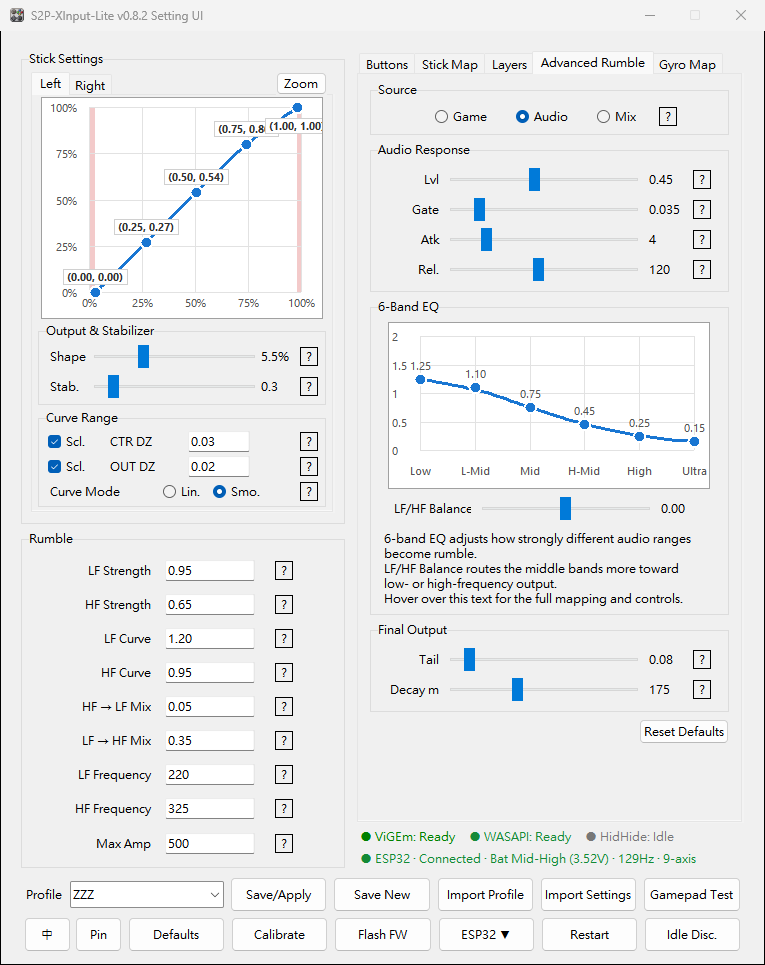
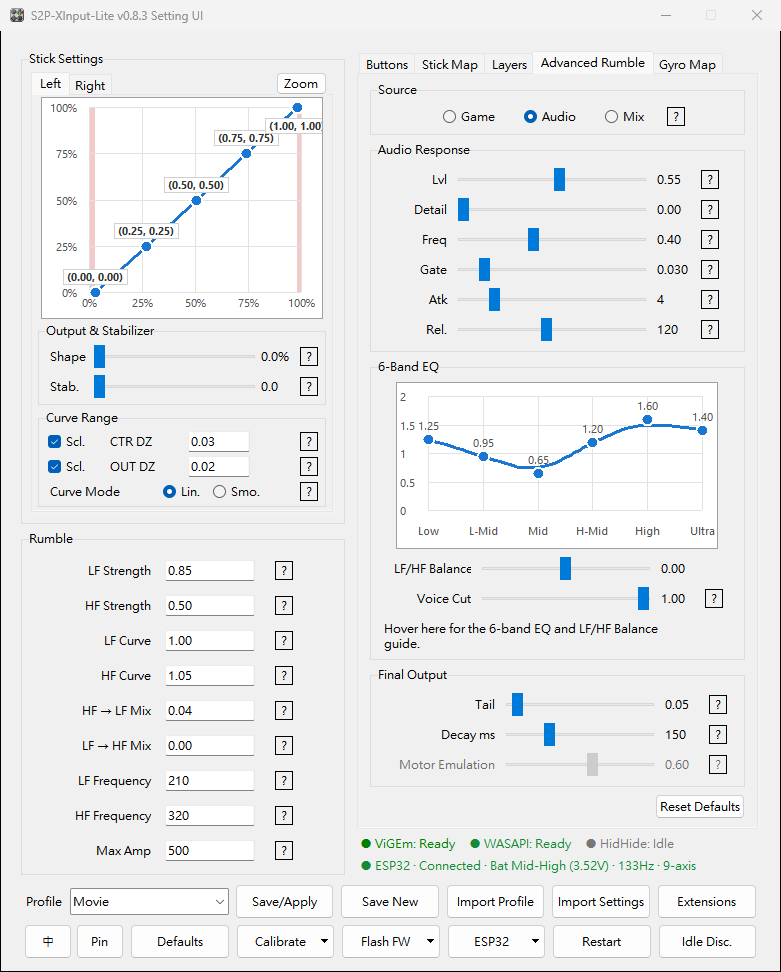
Write the v0.8.3 release notes and update the READMEs and guides
- Replace the v0.8.2 notes with v0.8.3 notes covering Voice Cut and the
  Movie profile, Motor Emulation, Detail and Freq, the audio rumble fixes,
  the redesigned rumble test patterns, custom firmware flashing, the
  cancellable flash-port wait, sensor calibration that connects first,
  new-window focus, Aim Test comparisons and the Raw HID button fix. The
  bundled firmware is unchanged, so the notes say no reflash is needed
  after v0.8.2.
- Point both READMEs at the v0.8.3 notes, say the firmware matches v0.8.2,
  and list the new rumble options and custom firmware flashing.
- The guides say sensor calibration offers to start the connection, and
  gain anchors for rumble, Voice Cut, the rumble test and sensor
  calibration.
- Retake the Advanced Rumble and Rumble Test screenshots.

diff --git a/RELEASE_NOTES_v0.8.3.md b/RELEASE_NOTES_v0.8.3.md
@@ -1,4 +1,4 @@
-# v0.8.2
+# v0.8.3
 
 **[Download the latest Windows release](https://github.com/duoduo-88/S2P-XInput-Lite/releases/latest)** · **[Support the project on Ko-fi](https://ko-fi.com/duoduo88)**
 
@@ -19,21 +19,23 @@ To upgrade, extract the new version to a new folder and use **Import Settings**
 to bring over your profiles, layers, and calibration. The
 [User Guide](manual/USER_GUIDE.md) covers every setting step by step.
 
+v0.8.3 bundles the same ESP32-S3 firmware as v0.8.2, S2P-FW `1.0.9`. If you
+already flashed it with v0.8.2, nothing needs to be flashed again.
+
 ### What's new
 
-- **Extensions**: independent tools can send input through S2P or read its controller output, only with the permissions you allow. Add a tool in the **Extensions** window and it is enabled in the list right away. Enabled tools start with S2P and close with it. S2P stays the only virtual controller: buttons are combined, each stick belongs to one tool, and the physical stick always has priority. The conflict check lists stick conflicts, missing permissions, second copies, and unknown programs, and **Check for Updates** shows which tools have a newer version. The first tool is [S2P-Joystick-Macro](https://github.com/duoduo-88/S2P-Extensions), which records and plays back controller macros.
-- Gyro X and Y ratios now range from `0.10` to `2.00`. **Compensation Settings** accepts a separate multiplier for each axis. It scales gyro stick output after smoothing and the response curve. In Center mode, **Keep the original speed cap** keeps the turn-speed ceiling you had before compensating.
-- The 3D compensation preview compares the default turn speed with your adjusted speed, then saves the suggested multiplier to S2P and applies it to the current connection. The adjacent calculator estimates compensation from in-game turn times. Tracking supports adjustable target speed and reverses at the ends of the configured arc.
-- Center gyro uses a radial deadzone and offers button spike suppression. The default button stabilization mode is Freeze Output. Gyro stick anti-deadzone now defaults to `0`. The bundled FPS-COMP preset uses `10 ms` smoothing.
-- Bundled S2P-FW `1.0.9` brings the radial deadzone, spike suppression, independent gyro compensation with the original speed cap option, and gamepad combos to Android USB HID standalone mode. Use **Flash FW** in the main app, then write your profile to the ESP32. A progress window now shows each flashing step.
-- Gamepad Tester: **S2P Mobile Gamepad (Raw HID)** now shows every button and the D-pad, and works in the Aim Test. Aim Test history compares rounds with the same target settings, and the tester has a new icon.
-- **Gamepad Combo** lets one button or stick direction press 2 to 4 XInput buttons together, such as X + Y. The buttons press and release in the same report with no delay, order, or repeat. Combos also work in mapping layers and in ESP32 standalone mode.
-- Gamepad Tester parameters, the Aim Test settings, and the compensation windows now work like the main app: drag a parameter's name to change it, and right-click for **Restore Saved** or **Restore Default**.
-- Dialogs open centered on their window instead of the screen.
-- Closing the settings window with **X** keeps S2P running in the notification area. Choose **Exit** in the notification area menu to quit.
-- The virtual controller is called XInput throughout the app. Reset buttons and mapping layer rows are aligned, and tooltips list every key when a summary is shortened.
-- If the ESP32 disconnects, the connector window stays open and shows why.
-- Improved stability for connection, sensor calibration, and live settings apply.
+- **Voice Cut** and a new **Movie** profile for audio rumble: while speech is recognised, rumble from the bands the voice occupies is lowered, so film dialogue no longer rumbles constantly. Explosions, gunshots, punches, and blade hits still come through over dialogue. The Movie profile turns it on and raises the H-Mid, High, and Ultra bands so gunshots and metal hits are clearly felt. Sung vocals count as speech, so other profiles leave it off.
+- **Motor Emulation** under **Final Output** makes game rumble behave like a classic motor: light rumble moves to a lower, grainier frequency and strong rumble to a higher, smoother one. It is on in every bundled profile (Racing `1.00`, Action `0.75`, others `0.60`) and is greyed out when **Source** is Audio.
+- Audio rumble adds **Detail**, which lifts quiet detail without amplifying background sound near the gate, and **Freq**, which moves the HD Rumble frequencies with the tone of the sound.
+- Audio rumble now fades out when a player pauses instead of stopping on its last level. 5.1 and 7.1 outputs no longer feel weaker than stereo, and loud bass leaks much less into the high bands. **Mix** keeps game rumble at full strength up to `0.50`. Several bundled rumble profiles are retuned to match.
+- Rumble Test patterns are redesigned so each one feels like its name, such as Heartbeat, Double, Machine Gun, and Engine. **Rate** now sets how often a pattern restarts instead of stretching it. **Repeat** loops a pattern, and the new **Overlap** decides whether a newly selected pattern plays on top of the others or replaces them. Duplicate patterns were removed, and Countdown is now Start Countdown.
+- **Flash FW** is now a menu. **Flash bundled firmware** works as before, and **Flash custom firmware…** flashes an ESP32-S3 image you built yourself. The file is checked before any device is touched, and checked again right before flashing. The User Guide has a new section on building your own firmware, and the release package now includes the firmware source.
+- The wait for the ESP32-S3 flash port can be cancelled. Cancelling it, or letting it time out, brings back the connection the flash stopped.
+- **Sensor Calibration** without a connected controller now offers to start the connection, then continues by itself once the controller connects.
+- Newly opened windows take the keyboard focus while S2P is the active application, so typing and Enter no longer go to the window behind them.
+- Aim Test results compare each value with its own best among rounds with the same settings. The User Guide explains how screen resolution and aspect ratio affect the Aim Test.
+- Gamepad Tester's Raw HID source now shows the buttons, D-pad, and triggers of XInput controllers, not only their sticks.
+- The ESP32 menu item **Write and enable Android USB HID standalone** is shortened to **Write and enable standalone**. The startup banner uses the same font on every PC, English gyro and Final Output labels are no longer cut off, and a few untranslated texts in English mode are fixed.
 
 ## 繁體中文
 
@@ -51,18 +53,19 @@ to bring over your profiles, layers, and calibration. The
 更新時請將新版解壓縮到新資料夾，再用 **匯入設定** 帶入舊版的方案、映射層與校正資料。
 [使用手冊](manual/USER_GUIDE_zh-TW.md) 附截圖逐步說明每項設定。
 
+v0.8.3 隨附的 ESP32-S3 韌體與 v0.8.2 相同，都是 S2P-FW `1.0.9`。已用 v0.8.2 刷過韌體的話不必重刷。
+
 ### 更新內容
 
-- **擴充工具**：獨立工具可透過 S2P 送出輸入或讀取控制器輸出，只能使用你允許的權限。在「擴充工具」視窗新增工具後即在清單中啟用，啟用的工具會隨 S2P 啟動與關閉。S2P 仍是唯一的虛擬手把：按鍵會合併，每支搖桿只由一個工具控制，實體搖桿永遠優先。衝突檢查會列出搖桿衝突、缺少的權限、重複開啟的工具與不明程式，「檢查更新」可查看哪些工具有新版本。第一個工具是可錄製與播放手把巨集的 [S2P-Joystick-Macro](https://github.com/duoduo-88/S2P-Extensions)。
-- 陀螺儀 X／Y 比例放寬到 `0.10–2.00`。「補償設定」可分軸輸入補償倍率，在平滑和感度曲線之後調整陀螺儀搖桿輸出。回中模式可勾選「保留原本的速度上限」，補償後仍維持原本的轉向速度上限。
-- 3D 補償預覽比較預設視角速度與調整後的速度，量測後會將建議倍率存入 S2P 設定，並套用到目前連線。旁邊的「補償計算」可用遊戲錄影的轉向耗時試算倍率。跟槍可調整靶速，靶會在指定角度範圍內往返。
-- 回中模式改用圓形死區，按鍵防晃可選「抑制突波」，預設為「暫停輸出」。陀螺儀搖桿反死區預設改為 `0`。內建 FPS-COMP 方案的平滑值調為 `10 ms`。
-- 隨附 S2P-FW `1.0.9`，Android USB HID 獨立模式支援圓形死區、抑制突波、獨立的陀螺儀輸出補償（含保留原本的速度上限）及手把組合鍵。在主視窗刷入新韌體後，再將設定檔寫入 ESP32。刷寫時會以進度視窗顯示目前步驟。
-- 手把測試：「S2P Mobile Gamepad（Raw HID）」現在會顯示所有按鍵與十字鍵，也能用於瞄準測試。瞄準測試紀錄改為比較相同目標設定的回合，手把測試也換上新圖示。
-- 新增「自訂手把組合」：一個按鍵或搖桿方向可同時按下 2 到 4 個 XInput 按鍵，例如 X + Y。組合內的按鍵在同一幀一起按下、一起放開，不含延遲、順序或連發。映射層與 ESP32 獨立模式也能使用。
-- 手把測試、瞄準測試設定與補償視窗的參數改成和主程式一樣：在參數名稱上拖曳可調整數值，按右鍵可選「還原上次儲存」或「還原系統預設」。
-- 提示視窗改為顯示在所屬視窗中央，不再出現在螢幕中央。
-- 按設定視窗的 **X** 會讓 S2P 縮到系統匣繼續執行；要結束請在系統匣選單選「結束程式」。
-- 程式內的虛擬手把統一稱為 XInput。重設按鈕與映射層各列已對齊，按鍵摘要被截短時，提示會列出所有按鍵。
-- ESP32 中斷時，連接程式視窗會保留並顯示原因。
-- 改善連線、感測器校正與即時套用設定的穩定性。
+- 音訊震動新增「人聲抑制」與「Movie」方案：辨識到講話時，會壓低人聲所在頻段的震動，電影對白不再一直震動；爆炸、槍聲、拳腳與刀劍等撞擊疊在對白上時照常震動。Movie 方案會開啟人聲抑制，並提高 H-Mid、High 與 Ultra 頻段，讓槍聲與金屬撞擊更明顯。歌曲的人聲也會被當成講話，所以其他方案預設關閉。
+- 「最終輸出」新增「馬達模擬」，讓遊戲震動像傳統馬達：輕震動的頻率往下、更有顆粒感，強震動的頻率往上、維持滑順。所有內建方案都已開啟（Racing `1.00`、Action `0.75`，其他為 `0.60`）；Source 為純音訊時會停用。
+- 音訊震動新增「細節增強」，可放大細小的聲音，噪音閘附近的背景聲不會被放大；以及「頻率跟隨」，讓 HD Rumble 頻率隨聲音的音色變化。
+- 播放器暫停時，音訊震動會自然淡出，不再停在最後的強度。5.1 與 7.1 聲道輸出不再比立體聲弱，強烈低音也大幅減少滲入高頻段。「混合」比例在 `0.50` 以下時，遊戲震動維持完整強度。多個內建震動方案也已配合重新調整。
+- 震動測試的模板重新設計，每個模板都符合名稱的手感，例如心跳、雙擊、機槍與引擎。「播放頻率」改為決定模板多久重新開始一次，不再拉長效果本身。「重複播放」讓模板循環播放，新增的「重疊播放」決定新點選的模板要疊加在播放中的模板上，還是取代它們。重複的模板已移除，「節拍」改名為「腳步」，「倒數」改名為「起跑倒數」。
+- 「刷入韌體」改為選單：「刷入內建韌體」與原本相同，「刷入自訂韌體…」可刷入自己編譯的 ESP32-S3 韌體。接觸裝置前會先檢查檔案，刷寫前也會再確認一次。使用手冊新增自行編譯韌體的說明，發佈套件也附上韌體原始碼。
+- 等待 ESP32-S3 刷機連接埠時可以取消。取消或等待逾時後，會恢復刷機前停止的連線。
+- 手把未連線時執行「感測器校正」，會詢問是否自動啟動連線，手把連線後自動繼續校正。
+- S2P 是目前使用中的程式時，新開啟的視窗會取得鍵盤焦點，輸入文字與按 Enter 不會再跑到後面的視窗。
+- 瞄準測試的每項成績改為和相同設定回合中的各自最佳值比較。使用手冊說明了螢幕解析度與長寬比對瞄準測試的影響。
+- 手把測試的 Raw HID 來源現在也會顯示 XInput 手把的按鍵、十字鍵與扳機，不再只有搖桿。
+- ESP32 選單的「寫入並啟用 Android USB HID 獨立模式」縮短為「寫入並啟用獨立模式」。啟動畫面在每台電腦都使用相同字型，英文版的陀螺儀與「最終輸出」欄位名稱不再被截斷，也修正了英文模式下幾處未翻譯的文字。

diff --git a/manual/USER_GUIDE_zh-TW.md b/manual/USER_GUIDE_zh-TW.md
@@ -498,8 +498,12 @@ Activation、Target、Control Mode、Gyro Response 與 Stability 五區，欄位
 - **Sens. Curve**（感度曲線）：只在回中模式、啟用陀螺儀且輸出到搖桿時可用。
 - **Compensation Settings**（補償設定）：分軸調整陀螺儀輸出倍率；輸出為滑鼠時不顯示。
 
+<a name="sensor-calibration"></a>
+
 感測器校正位於主視窗底部 **Calibrate ▼**（校正）→ **Sensor Calibration**（感測器校正）。
 請先將手把平放在穩定的平面上再執行，校正期間按鈕會顯示目前進度。
+如果手把還沒連線，S2P 會詢問是否自動啟動連線；依連接程式視窗的提示喚醒或配對手把，連線後就會自動繼續校正。
+最多等待 2 分鐘，連接程式停止時也會結束等待。
 
 #### 感度曲線
 
@@ -582,6 +586,8 @@ Activation、Target、Control Mode、Gyro Response 與 Stability 五區，欄位
 > `0–1023` 是協議欄位範圍，不代表所有手把都適合長時間使用最高值。若出現明顯撞擊聲、尖銳聲或
 > 不自然的震感，請降低 **Max Amp**、**LF/HF Strength** 或相關頻段增益。
 
+<a name="rumble-game"></a>
+
 ### 7.2 Advanced Rumble：Game（遊戲）模式
 
 ![Advanced Rumble 的 Game 模式](assets/v0.8.2/main-rumble-game.png)
@@ -596,6 +602,8 @@ Activation、Target、Control Mode、Gyro Response 與 Stability 五區，欄位
 **Final Output**（最終輸出）的 **Tail**（餘震強度）與 **Decay ms**（衰減）控制震動尾端與衰減；
 **Motor Emulation**（馬達模擬）模擬 Xbox 傳統馬達，遊戲震動越強頻率越高，中等強度維持原本頻率。它只影響遊戲震動，`0.00` 為關閉，獨立模式不支援。
 **Reset Defaults**（還原預設）還原本頁。
+
+<a name="audio-rumble"></a>
 
 ### 7.3 Audio（音訊）與 Mix（混合）模式
 
@@ -629,6 +637,8 @@ Activation、Target、Control Mode、Gyro Response 與 Stability 五區，欄位
 
 **LF/HF Balance**（LF／HF 重心）只改變中間頻段的路由，不修改六個頻段本身的增益：`-1.00`
 偏向 LF，`0.00` 平衡，`+1.00` 偏向 HF。建議先在 `-0.15～+0.15` 之間測試。
+
+<a name="voice-cut"></a>
 
 **Voice Cut**（人聲抑制）在 LF/HF Balance 下方，用於看電影、影集：辨識到講話時，壓低人聲所在頻段的震動，讓對白不再一直震動。爆炸、槍聲、拳腳、刀劍等撞擊聲不會被壓低，疊在對白上時也照常震動。`0.00` 為關閉；看電影建議 `0.80～1.00`。歌曲的人聲也會被當成講話，所以聽音樂建議維持關閉。開啟時震動會延後約 15 ms，讓每句話一開口就能被辨識出來；看影片時感覺不到這段延遲。
 
@@ -885,6 +895,8 @@ Activation、Target、Control Mode、Gyro Response 與 Stability 五區，欄位
 
 箭頭表示數值上升或下降，綠色代表刷新最佳紀錄，紅色代表不及最佳紀錄；命中率與跟靶率的差異以百分點顯示。
 **Clear History**（清除紀錄）可移除已儲存的回合。
+
+<a name="rumble-test"></a>
 
 ### 8.6 Rumble Test（震動測試）
 

diff --git a/README.md b/README.md
@@ -1,6 +1,6 @@
 # S2P-XInput-Lite
 
-[繁體中文](README_zh-TW.md) · [User Guide](manual/USER_GUIDE.md) · [繁體中文使用手冊](manual/USER_GUIDE_zh-TW.md) · [v0.8.2 release notes](RELEASE_NOTES_v0.8.2.md)
+[繁體中文](README_zh-TW.md) · [User Guide](manual/USER_GUIDE.md) · [繁體中文使用手冊](manual/USER_GUIDE_zh-TW.md) · [v0.8.3 release notes](RELEASE_NOTES_v0.8.3.md)
 
 **[Download the latest Windows release](https://github.com/duoduo-88/S2P-XInput-Lite/releases/latest)** · **[Support the project on Ko-fi](https://ko-fi.com/duoduo88)**
 
@@ -12,10 +12,10 @@ bundled Gamepad Tester checks input, rumble, and report rate, and includes a
 2D/3D Aim Test.
 
 > [!IMPORTANT]
-> **v0.8.2 bundles ESP32-S3 firmware S2P-FW 1.0.9.** It brings the radial
-> gyro deadzone, button spike suppression, per-axis gyro compensation, and
-> gamepad combos to Android USB HID standalone mode. If you use the ESP32-S3 bridge, open
-> **Flash FW** in the main window to check and update your firmware.
+> **v0.8.3 bundles ESP32-S3 firmware S2P-FW 1.0.9, the same as v0.8.2.** If
+> you already flashed it with v0.8.2, nothing needs to be flashed again. Coming
+> from an earlier version with the ESP32-S3 bridge, open **Flash FW ▼ > Flash
+> bundled firmware** in the main window to check and update your firmware.
 > [Flashing instructions](manual/USER_GUIDE.md#flash-esp32-s3)
 
 ![S2P-XInput-Lite banner](image/S2P-XInput-Lite-banner.jpg)
@@ -93,7 +93,12 @@ use **Import Settings** to bring over your profiles, layers, and calibration.
 - The same XInput-to-HD Rumble 2 conversion over USB, ESP32, and BLE, always
   sending only the latest frame and prioritizing stop frames.
 - Audio-reactive rumble that analyzes six frequency bands, with Game, Audio,
-  and Mix sources.
+  and Mix sources. **Detail** lifts quiet detail, **Freq** moves the HD Rumble
+  frequencies with the tone of the sound, and **Voice Cut** keeps film dialogue
+  from rumbling while impacts still come through.
+- **Motor Emulation** makes game rumble behave like a classic motor: light rumble
+  feels grainier and strong rumble stays smooth.
+  [Rumble guide](manual/USER_GUIDE.md#rumble-game)
 
 **Profiles**
 - Game profiles switch stick, gyro, rumble, audio, and mapping settings
@@ -106,7 +111,9 @@ use **Import Settings** to bring over your profiles, layers, and calibration.
 - Write a profile to the ESP32 and run it as an Android USB HID controller
   without the Windows program. Controller button chords and the CDC console
   remain available for recovery.
-- Built-in firmware flashing that checks the installed version first.
+- Built-in firmware flashing that checks the installed version first, or
+  flashes a firmware image you built yourself after checking that it fits.
+  [Build your own firmware](manual/USER_GUIDE.md#build-firmware)
 
 **Extensions**
 - Independent tools such as [S2P-Joystick-Macro](https://github.com/duoduo-88/S2P-Extensions)

diff --git a/manual/USER_GUIDE.md b/manual/USER_GUIDE.md
@@ -624,9 +624,15 @@ Buttons below the fields:
   and stick output.
 - **Compensation Settings**: per-axis gyro output multipliers. Hidden for mouse output.
 
+<a name="sensor-calibration"></a>
+
 Sensor calibration is at the bottom of the main window: **Calibrate ▼** >
 **Sensor Calibration**. Place the controller flat on a steady surface first;
 the button shows the progress while it runs.
+If no controller is connected yet, S2P offers to start the connection.
+Wake or pair the controller as the connector window shows, and calibration
+continues by itself once it connects. The wait ends after 2 minutes, or as
+soon as the connector stops.
 
 #### Sensitivity curve
 
@@ -723,6 +729,8 @@ feedback while reducing the chance of noise.
 > noise, or unnatural vibration, lower **Max Amp**, **LF/HF Strength**, or the
 > related band gains.
 
+<a name="rumble-game"></a>
+
 ### 7.2 Advanced Rumble: Game
 
 ![Advanced Rumble in Game mode](assets/v0.8.2/main-rumble-game.png)
@@ -741,6 +749,8 @@ and fade. **Motor Emulation** emulates classic Xbox motors: stronger game
 rumble gets a higher frequency, while medium rumble keeps the configured
 frequency. It affects game rumble only; `0.00` is off and standalone mode
 ignores it. **Reset Defaults** restores this tab.
+
+<a name="audio-rumble"></a>
 
 ### 7.3 Audio and Mix
 
@@ -775,6 +785,8 @@ ignores it. **Reset Defaults** restores this tab.
 **LF/HF Balance** only changes how the middle bands are routed and does not
 change the six band gains. `-1.00` favors LF, `0.00` is balanced, and `+1.00`
 favors HF. Start between `-0.15` and `+0.15`.
+
+<a name="voice-cut"></a>
 
 **Voice Cut**, below LF/HF Balance, is for films and shows: while speech is
 recognised it lowers rumble from the bands the voice occupies, so dialogue no
@@ -1131,6 +1143,8 @@ Arrows show the direction of change. Green marks a new best and red marks a
 result short of the best.
 Accuracy and On Target changes are in percentage points. **Clear History**
 removes saved rounds.
+
+<a name="rumble-test"></a>
 
 ### 8.6 Rumble Test
 
